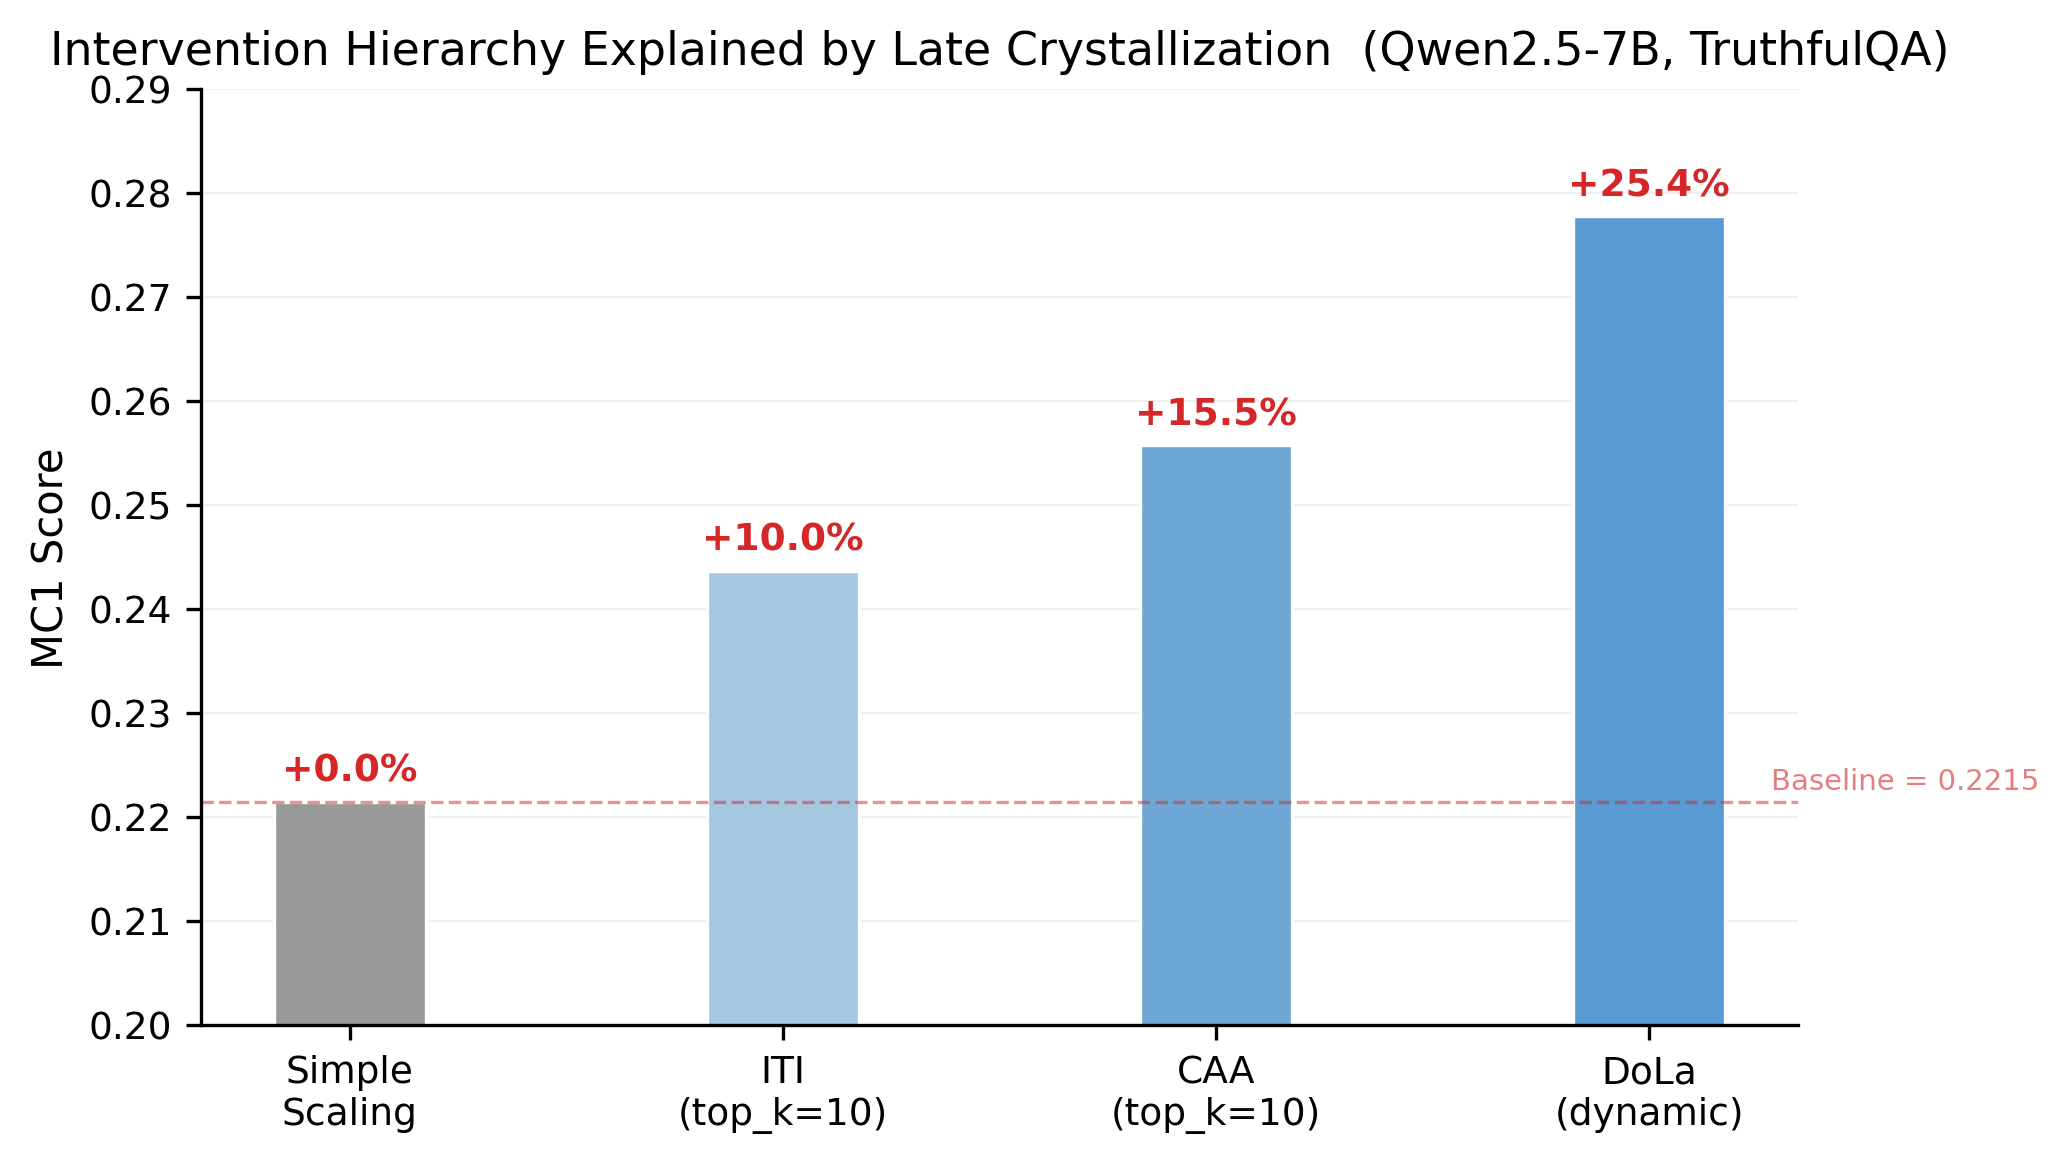
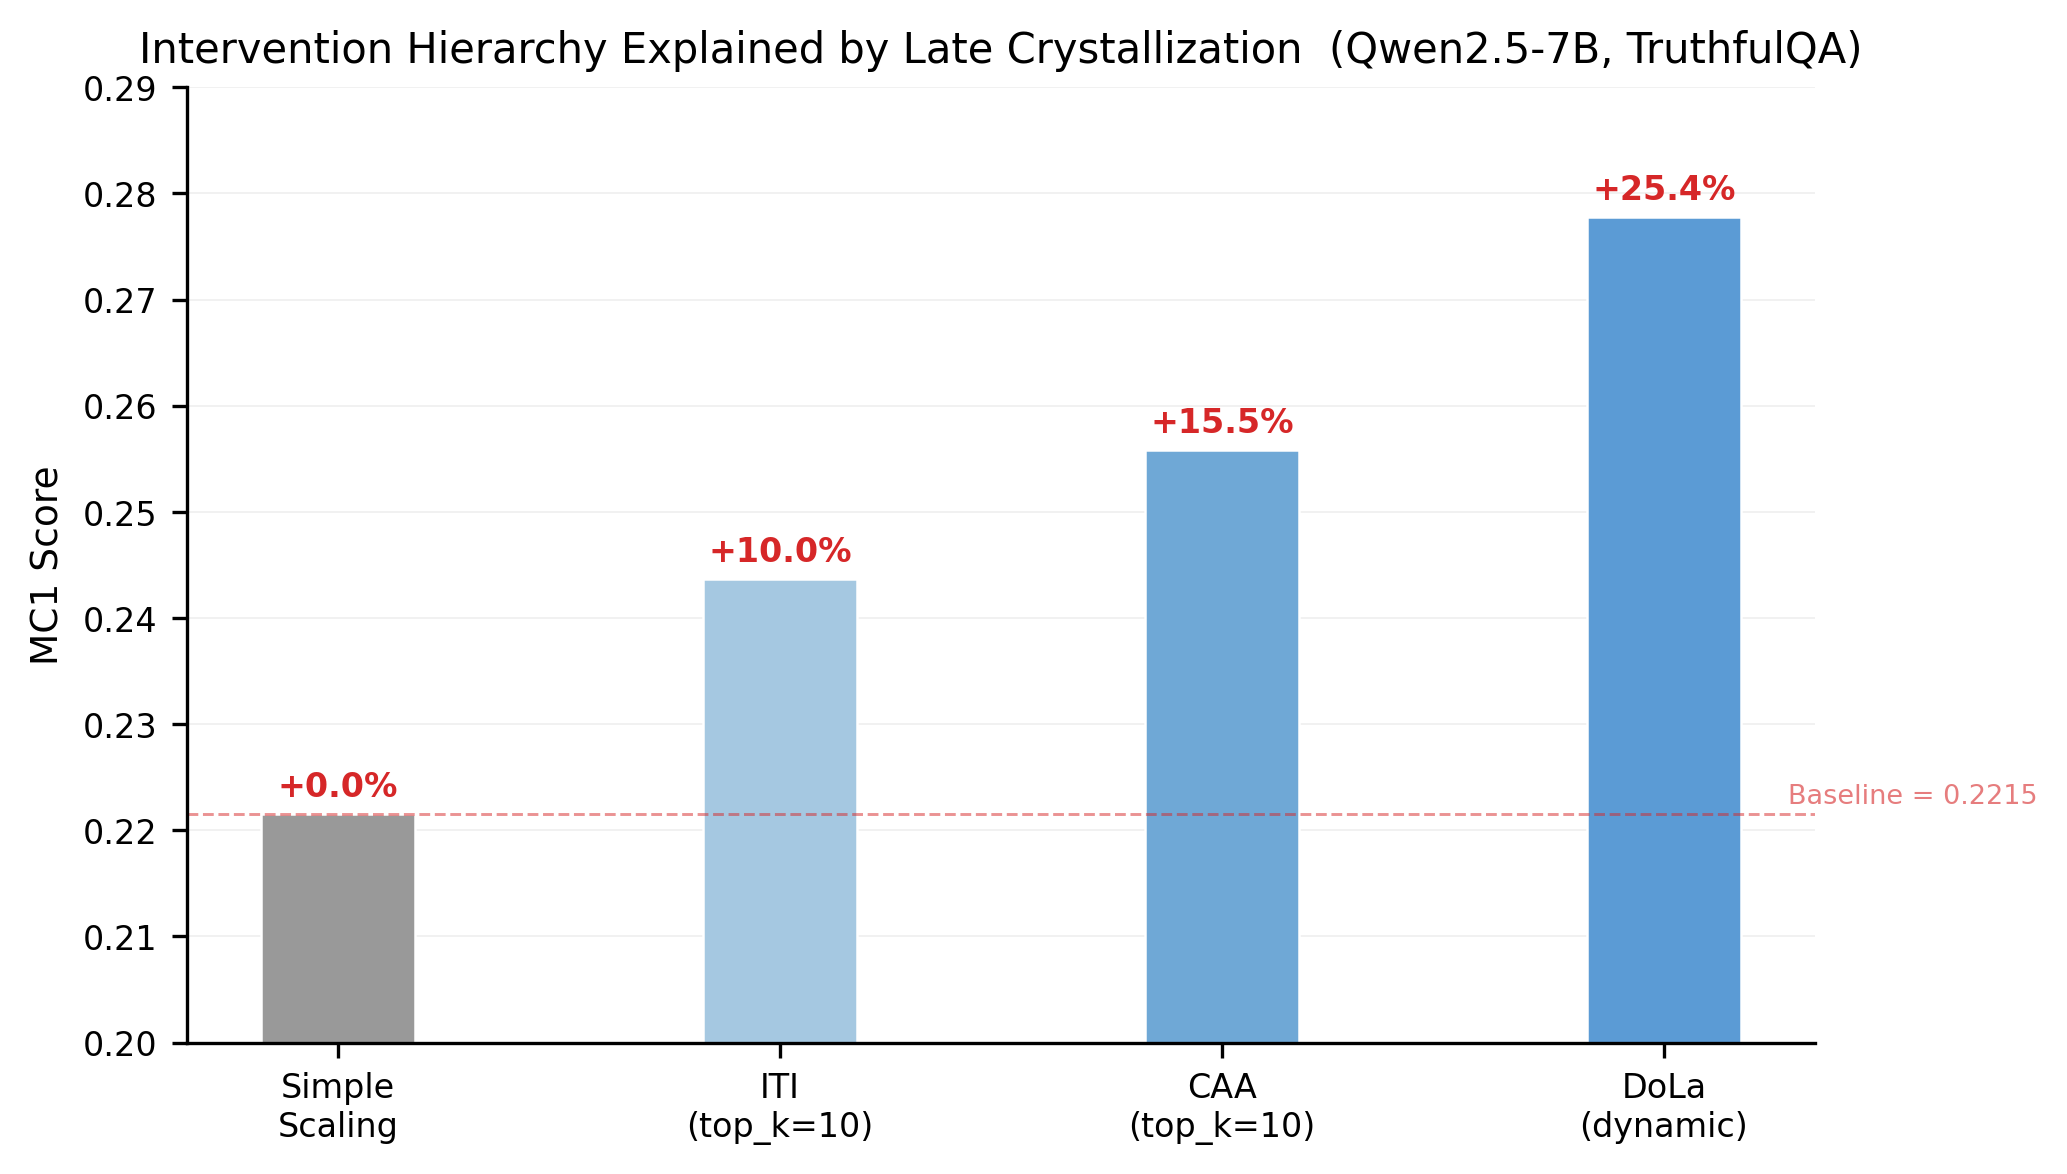
fig: v4 smaller fonts + Figure 5 caption numbering

diff --git a/content/posts/late-crystallization/index.md b/content/posts/late-crystallization/index.md
@@ -156,7 +156,7 @@ Everything so far has been on Qwen2.5-7B. A natural question: is Late Crystalliz
 - **Llama-3.1-8B** (32 layers): Mean FEP 29.4 ± 4.9, FEP depth **91.9%**, crystallization rate **71.0%**
 - **Mistral-7B** (32 layers): Mean FEP 26.3 ± 6.2, FEP depth **82.3%**, crystallization rate **27.1%**
 
-![Late Crystallization is universal but varies by architecture. Solid bars = final-layer crystallization rate; hatched bars = FEP depth as percentage of total layers. All models show >80% FEP depth, but strict crystallization ranges from 85.9% (Qwen) to 27.1% (Mistral).](figures/crystallization_by_architecture.png)
+![Figure 5: Late Crystallization is universal but varies by architecture. Solid bars = final-layer crystallization rate; lighter bars = FEP depth as percentage of total layers. All models show >80% FEP depth, but strict crystallization ranges from 85.9% (Qwen) to 27.1% (Mistral).](figures/crystallization_by_architecture.png)
 
 Two key findings:
 